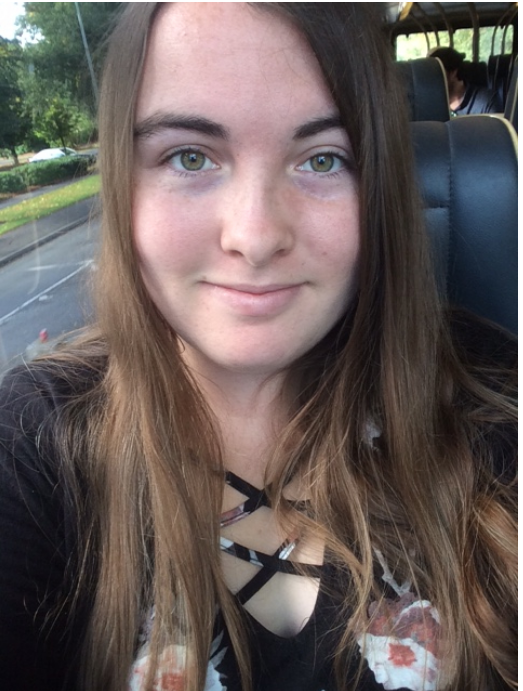
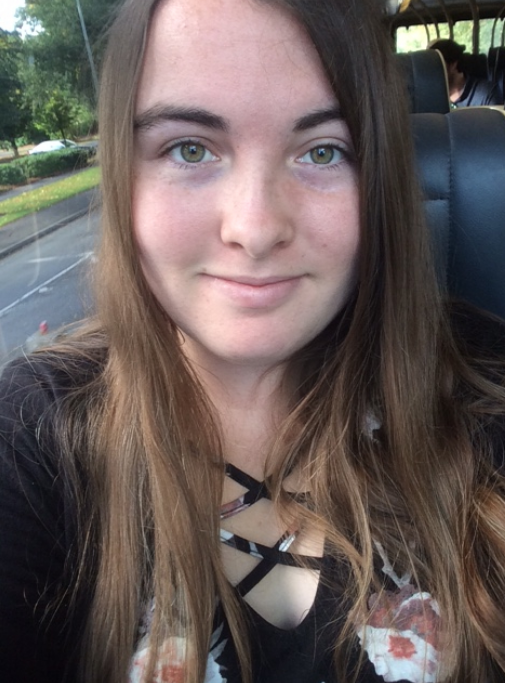
popup

diff --git a/src/js/data/team.data.js b/src/js/data/team.data.js
@@ -71,7 +71,7 @@ const Team=[
         name:"Maria Sanchez",
         position:"Intern",
         bio:"I am a first generation sophomore at Texas A&M University majoring in Industrial & Systems Engineering with a concentration in Health & Human systems. My hobbies include working out and watching Netflix. I also love helping people, which is one of the reasons I enjoy being a part of DACAmented team in SWAG. We provide resources for undocumented students and their families. Most of these students are first generation too and being undocumented can make them think that college is not an option at all but our goal is to help them learn that it is an option. ",
-        imgUrl:"./img/angie.png",
+        imgUrl:"./img/maria.jpg",
         domain:"Intern"
     },
     {
@@ -108,21 +108,21 @@ const Team=[
         name:"Nicole Trujillo",
         position:"Not the right picture",
         bio:"I am a first-generation",
-        imgUrl:"./img/angie.png",
+        imgUrl:"./img/nicole-tru.jpg",
         domain:"Intern"
     },
     {
         name:"Priscila Escamilla",
         position:"Not the right picture",
         bio:"I am a senior at the University of Houston, I am studying Integrated Communications which is basically a mix of public relations and advertising and double minoring in Business Administration and Marketing. My biggest passions are reading and watching shows from other countries, I love figuring out what that country values, i find it completely fascinating how each culture is so different yet in some aspects the same.  I have been a part of SWAG since August 2017, and my role in SWAG is the Chief Operating Officer where I work with each domain to manas",
-        imgUrl:"./img/angie.png",
+        imgUrl:"./img/priscilla.jpg",
         domain:"Intern"
     },
     {
         name:"Sarah Montero",
         position:"Intern",
         bio:"sarah-montero",
-        imgUrl:"./img/angie.png",
+        imgUrl:"./img/sarah-montero.png",
         domain:"Intern"
     },
     {
@@ -135,59 +135,90 @@ const Team=[
     {
         name:"Raj Salhotra",
         position:"Co-founder",
-        bio:"",
-        imgUrl:"./img/angie.png",
+        bio:`I am third-year law student at Harvard Law School. Before coming to law school, I served as a Teach For America Corps Member in Houston. I taught 11th and 12th grade math at YES Prep Southwest. Before YES, I was a student at Rice University where I majored in economics and public policy. While at Rice, I took classes in educational inequality and sociology and gained a greater understanding of the challenges many Americans face. My work teaching provided concrete experiences to complement my classroom learning. 
+        
+        After teaching, building on experiences inside and outside the classroom, I co-founded SWAG To College to help more students gain the knowledge and opportunities they neeed to reach their goals. Through SWAG, my hope is we can reduce educational inequality and ensure that all students, regardless of background, can reach their dreams. `,
+        imgUrl:"./img/raj.jpg",
         domain:"Board of Directors"
     },
     {
         name:"Marcus Rolls",
         position:"Board Member",
-        bio:"",
-        imgUrl:"./img/angie.png",
-        domain:"Board of Directors"
-    },
-    {
-        name:"Andy Canales",
-        position:"Board Member",
-        bio:"",
-        imgUrl:"./img/angie.png",
+        bio:"Associate Vice President at Morgan Stanley",
+        imgUrl:"./img/marcus.png",
         domain:"Board of Directors"
     },
     {
         name:"Eduardo Garcia",
         position:"not the right picture",
-        bio:"",
-        imgUrl:"./img/angie.png",
+        bio:"I am a senior at Mirabeau B. Lamar High School. I was born and raised in Houston, Texas. I am passionate about computer science and computers in general, you can constantly finding me making a new program for my own fun. I am heavily involved in community service and love being able to give back to the community that has already given me so much. I am the co-president of our high school’s Key Club. I am passionate about what SWAG to College has to offer to students, because I come from the exact same background as our mentees. I understand how hard it is when it feels like no one is there to help, but now it doesn’t have to be that way! I am a firm believer in equal access to higher education, and achieving something greater shouldn’t have to be impossible.",
+        imgUrl:"./img/eduardo.jpg",
         domain:"Intern"
     },
     {
         name:"Luly Castillo",
         position:"Board Member",
         bio:"",
-        imgUrl:"./img/angie.png",
+        imgUrl:"./img/luly.jpg",
         domain:"Board of Directors"
     },
     {
         name:"Andy Canales",
         position:"Board Member",
-        bio:"",
-        imgUrl:"./img/angie.png",
+        bio:"The Legend",
+        imgUrl:"./img/andy-canales.jpg",
         domain:"Board of Directors"
     },
     {
         name:"Norma Villanueva",
         position:"Board Member",
-        bio:"",
-        imgUrl:"./img/angie.png",
+        bio:"Yes Prep Dean",
+        imgUrl:"./img/norma.jpg",
         domain:"Board of Directors"
     },
     {
-        name:"Samantha Ray",
+        name:"Sumantha Ray",
         position:"Board Member",
-        bio:"",
-        imgUrl:"./img/angie.png",
+        bio:"Work hard. Stay humble. Be kind. Do everything in love.",
+        imgUrl:"./img/sumantha.jpg",
         domain:"Board of Directors"
     },
+    {
+        name:"Maddie Coles",
+        position:"Director Young Professional of Young Professional Mentorship",
+        bio:"I am a junior at Georgetown University, double majoring in government and theology with a minor in computer science. I am originally from New Braunfels, Texas. I serve as the director of the Young Professionals Program, co-director of High School Partnerships, and a mentor for SWAG To College. Outside of SWAG, I also copy edit for a student newspaper, participate in student theatre, and conduct research in religion and public affairs. I am interested in pursuing law school or a master’s related to peace studies after college. As a nerd who has always loved school, I want all students to have the support and resources to achieve their academic goals. ",
+        imgUrl:"./img/maddie.jpg",
+        domain:"intern"
+    },
+    {
+        name:"Chidozie Alozie",
+        position:"Intern",
+        bio:"I am a sophomore at Vanderbilt University, majoring in Mechanical Engineering, with a minor in German. I am a SWAG to College Data Analyst and Director of YES Prep Partnerships, Arnold Scholar at Vanderbilt, Vice President of JPAC (Juggling and Physical Acts Club), and amateur sports writer. I grew up loving sports, numbers, and current events. What I love most about being a part of SWAG is it feeds my passion for providing indispensable services to underrepresented students who would otherwise not have them. I am a firm believer that SWAG to College has what it takes to be a vital instrument in the challenge to provide for students in need. ",
+        imgUrl:"./img/chidozie.jpg",
+        domain:"intern"
+    },
+    {
+        name:"Karen Banda",
+        position:"Intern",
+        bio:"I am a sophomore at Smith College, double majoring in Government and Latin American Studies, with a theme in Latino Immigration Studies. I am a SWAG to College Intern/Mentor/Mentor Manager, EMERGE Scholar Board Founder and President, Smith College Nosotr@s Conference Chair, Smith College Pre-Law Society Social Chair, Capen House Social Events Coordinator, and the Office of Multicultural Affairs Intern. I love being part of SWAG and EMERGE because of my passion and dedication in college access for minority students. After college, I would like to pursue (hopefully) a Fulbright Research Fellowship in México and then a JD in either Human Rights, International Law, or Immigration Law. I am passionate about closing the educational gap and equal opportunities for all.",
+        imgUrl:"./img/karen-banda.jpg",
+        domain:"intern"
+    },
+    {
+        name:"Jessica Telles",
+        position:"Intern",
+        bio:"I am a sophomore at Rice University majoring in Computational and Applied Mathematics and minoring in Statistics and Financial Computation and Modeling. This is my second year as a SWAG To College mentor. I went to a high school that had very little resources and offered no support to students so having a mentor would have been life-changing. Interning with SWAG to College has made me realize the ample resources out there that, even as a college student, I didn’t know about. I am passionate about helping high school students who are first-generation, low income and/or underserved and who are unaware of the many opportunities available that can help them follow their dreams and continue their education. ",
+        imgUrl:"./img/jessica-telles.jpg",
+        domain:"intern"
+    },
+    {
+        name:"Joanna Slusarewicz",
+        position:"Intern",
+        bio:"I am a sophomore at Rice University, majoring in computer science. I am a SWAG to College Data Analyst/Mentor/Blogger. Additionally I do research in the Rice environmental engineering department, have taught creative writing classes in middle schools across the country, and am president of Fastwarp board game club. In my work analyzing data with SWAG To College I hope to ensure that we are serving our mentees in the ways they need us most. At the moment, after college I plan to attend grad school to study renewable energies' development and policy.",
+        imgUrl:"./img/joanna-slu.jpg",
+        domain:"intern"
+    }
+   
 ]
 
     export default Team;

diff --git a/src/js/container/meet/meet.js b/src/js/container/meet/meet.js
@@ -5,6 +5,7 @@ import Team from '../../data/team.data';
 import TeamMember from './team-meet';
 import FilterOption from './filter-meet'
 import { Link} from 'react-router-dom';
+import PopUP from './popup'
 
 const Filter=styled.ul`
 list-style-type: none;`
@@ -21,12 +22,33 @@ export default class Meet extends Component{
     constructor(){
         super();
         this.state={
-            current:"All"
+            current:"All",
+            selectedStaff:0,
+            isPopUp:false
         }
+        this.feature=Team[this.state.selectedStaff];
     }
     changeFilter(option){
        this.setState({current:option});
        console.log(this);
+    }
+    changePopUp(){
+        if(this.state.isPopUp){
+            return {display:"flex"}
+        }else{
+            return {display:"none"}
+        }
+
+    }
+    openPopUp(id){
+        console.log(id);
+        this.setState({
+            isPopUp:true,
+            selectedStaff:id
+        })
+    }
+    closePopUp(){
+        this.setState({isPopUp:false})
     }
     render(){
         return(
@@ -38,15 +60,16 @@ export default class Meet extends Component{
                     <FilterOption key="board" changeFilter={this.changeFilter.bind(this)} current={this.state.current} filterName="Board of Directors" >Board of Directors</FilterOption>
                     <FilterOption key="intern" changeFilter={this.changeFilter.bind(this)}  current={this.state.current} filterName="Intern">Interns</FilterOption>
                 </Filter>
+                <PopUP closePopUp={this.closePopUp.bind(this)} display={this.changePopUp()} img={Team[this.state.selectedStaff].imgUrl} name={Team[this.state.selectedStaff].name} bio={Team[this.state.selectedStaff].bio} position={Team[this.state.selectedStaff].position}/>
                 <Staff>
                 {
                     Team.map(
                         (element,index)=>{
                             
                             if(this.state.current==="All"){
-                                return<TeamMember key={index} position={element.position} bio={element.bio} name={element.name} img={element.imgUrl}/>
+                                return<TeamMember key={index} id={index} openPopUp={this.openPopUp.bind(this)} position={element.position} bio={element.bio} name={element.name} img={element.imgUrl}/>
                             }else if(this.state.current===element.domain){
-                                return<TeamMember key={index} position={element.position} bio={element.bio} name={element.name} img={element.imgUrl}/>
+                                return<TeamMember key={index} id={index} openPopUp={this.openPopUp.bind(this)} position={element.position} bio={element.bio} name={element.name} img={element.imgUrl}/>
                             }
                             return null;
                         }

diff --git a/src/js/container/meet/popup.js b/src/js/container/meet/popup.js
@@ -1,0 +1,63 @@
+import styled from 'styled-components';
+import React, {Component} from 'react';
+import Styles from '../../style/styles';
+
+const Container=styled.div`
+display:flex;
+width:60%;
+background-color:${Styles.color.primary};
+padding:20px;
+height:300px;
+position:fixed;
+top:25%;
+left:25%;
+z-index:5;
+overflow-y:scroll;
+`
+const Picture=styled.img`
+height:250px;
+object-fit:cover;
+object-position:0% 0%
+`
+const Name=styled.h1``
+const Bio=styled.p``
+const Position=styled.div``
+const XContainer=styled.div`
+color:white;
+position:absolute;
+right:10px;
+top:10px;
+cursor:pointer;
+`
+export default class PopUp extends Component{
+   
+    render(){
+        return(
+            <Container style={this.props.display}>
+                <X closePopUp={this.props.closePopUp} />>
+                <Picture src={this.props.img} alt={this.props.name}/>
+                <div>
+                <Name>
+                    {this.props.name}
+                </Name>
+                <Position>
+                    {this.props.position}
+                </Position>
+                <Bio>
+                    {this.props.bio}
+                </Bio>
+                </div>
+            </Container>
+        )
+    }
+}
+
+class X extends Component{
+    render(){
+        return(
+            <XContainer onClick={()=>this.props.closePopUp()}>
+                X
+            </XContainer>
+        )
+    }
+}

diff --git a/src/js/container/meet/team-meet.js b/src/js/container/meet/team-meet.js
@@ -11,25 +11,10 @@ align-items: center;
 height:300px;
 position:relative;
 margin-bottom:10px;
-
+cursor:pointer;
 img{
     width:100%;
 }
-&:hover{
-        height:auto;
-       
-        img, div:nth-child(2){
-            display:none;
-        }
-        >div{
-            &:last-child{
-                display:block;
-                position:absolute;
-                div{
-                    display:block;
-                }
-            }
-        } 
     
 }
 `
@@ -43,23 +28,17 @@ color:grey;
 display:flex;
 flex-direction:column;
 align-items:center;`
-const Bio=styled.div`
-display:none;
-color:${Styles.color.font1};
 
-`
 const Position=styled.div``
-export default class TeamMember extends Component {
-
+export default class TeamMember extends Component { 
     render(){
         return(
-            <Container>
+            <Container onClick={()=>this.props.openPopUp(this.props.id)}>
                 <Picture src={this.props.img} alt={this.props.name}/>
                 <Wrapper>
                 <Name>{this.props.name}</Name>
                 <Position>{this.props.position}</Position>
                 </Wrapper>
-                <div style={{position:"relative"}}><Bio>{this.props.bio}</Bio></div>
             </Container>
         )
     }

diff --git a/src/js/container/about-us/contactus.js b/src/js/container/about-us/contactus.js
@@ -9,7 +9,8 @@ display: flex;
 flex-direction:column;
 align-items:center;
 `
-const Title=styled.h1``
+const Title=styled.h1`
+color:${Styles.color.primary}`
 const ContactWrapper=styled.div`
 display:flex;
 flex-direction:column;

diff --git a/src/js/container/about-us/core-value.js b/src/js/container/about-us/core-value.js
@@ -7,7 +7,9 @@ display: flex;
 flex-direction:column;
 align-items:center;
 `
-const Title=styled.h3``;
+const Title=styled.h3`
+color=${Styles.color.primary}
+`;
 const Value=styled.div`
 display: flex;
 flex-direction:column;
